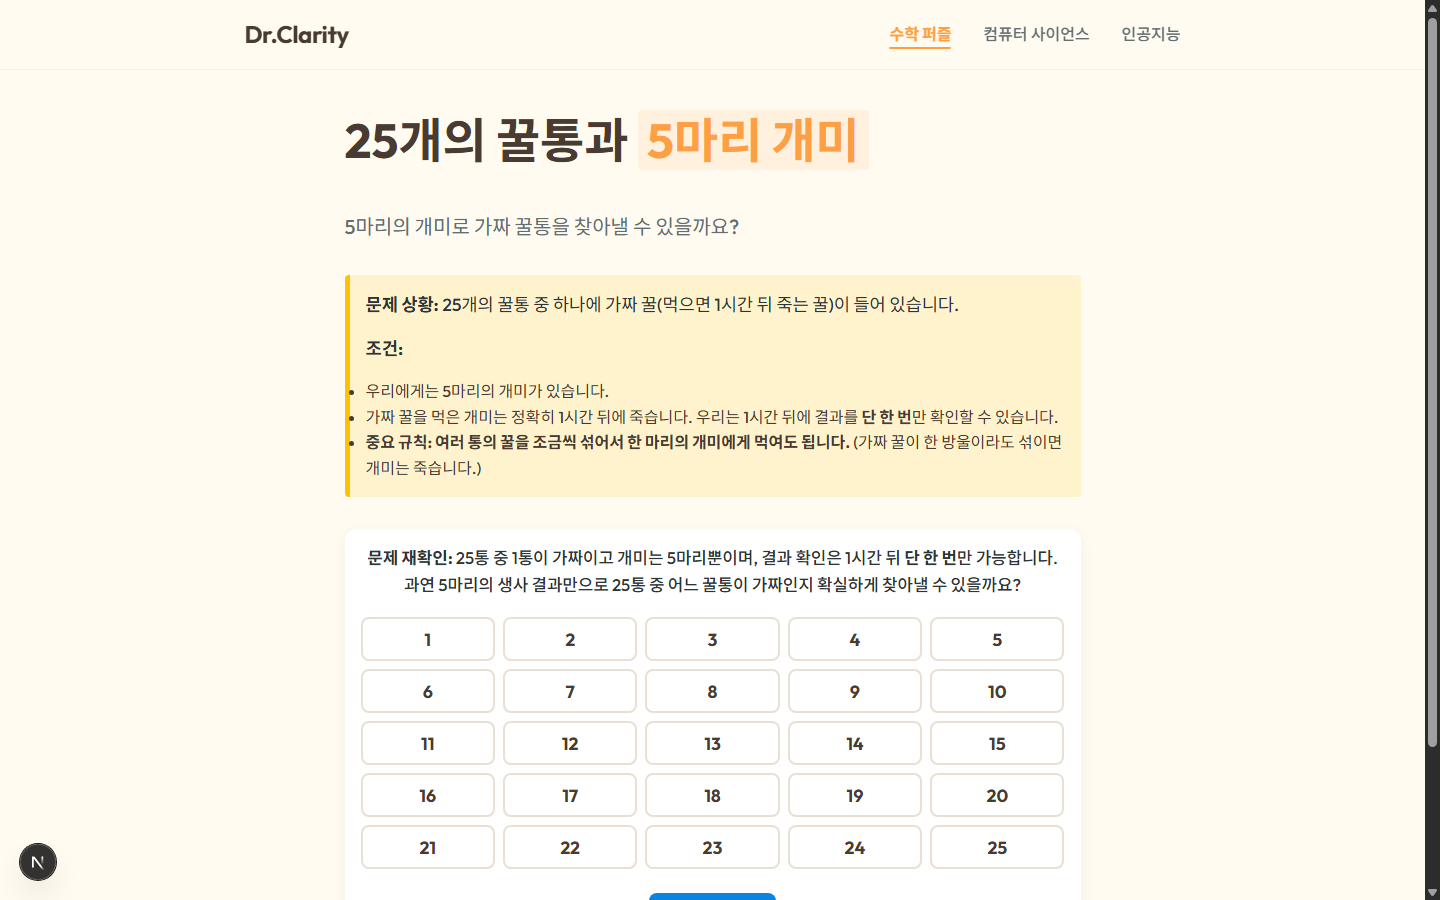
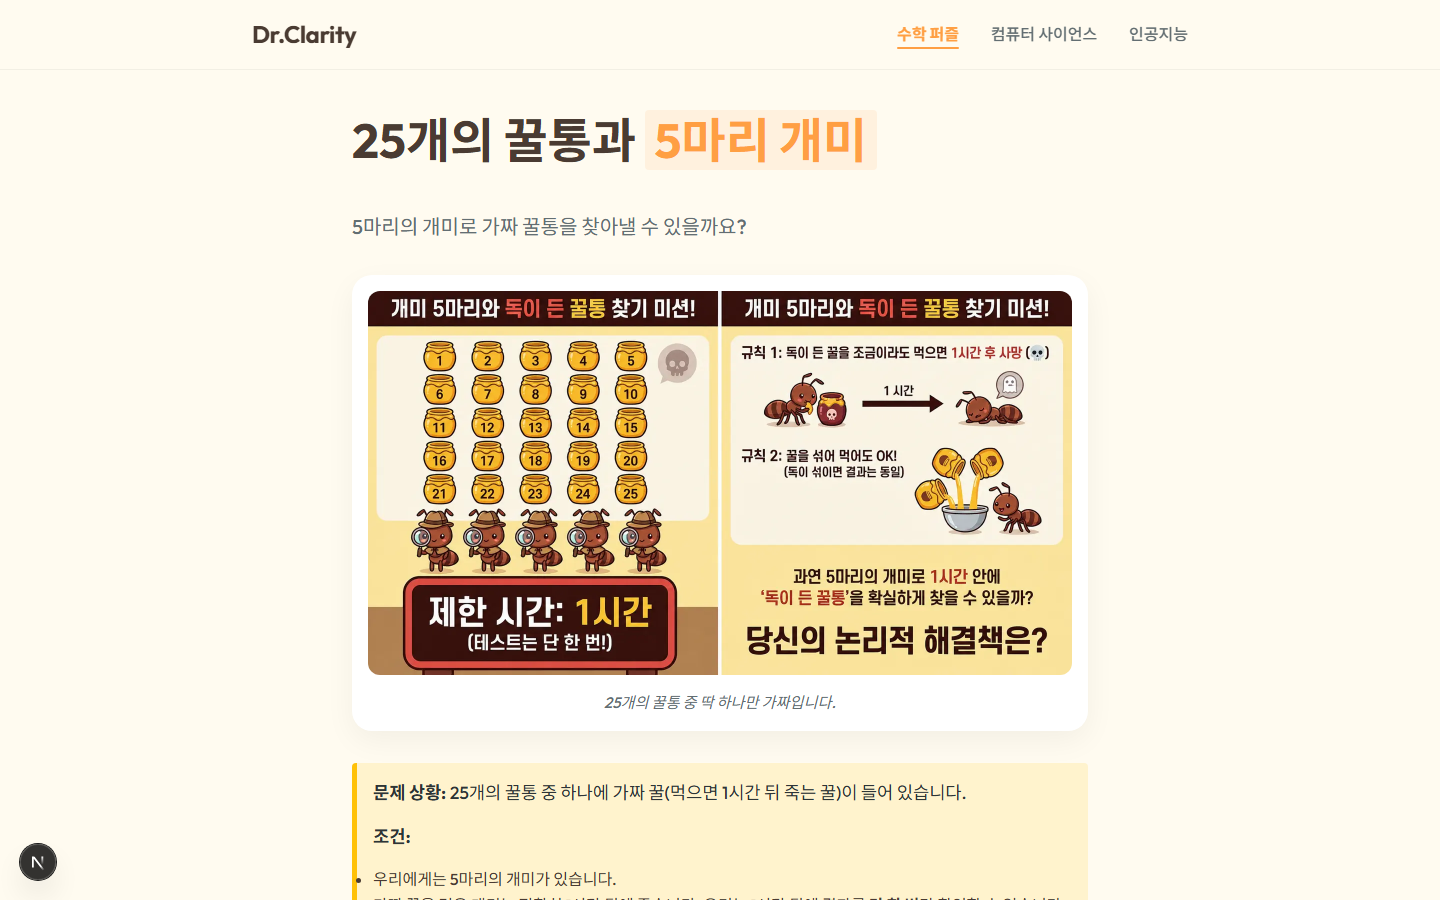
fix(#16): honey-pots 문제 이미지 복원 및 --media-max-h 토큰 상향 조정 (WP-7)

diff --git a/src/app/(topics)/math/honey-pots/HoneyPotsClient.tsx b/src/app/(topics)/math/honey-pots/HoneyPotsClient.tsx
@@ -1,6 +1,8 @@
 'use client';
 import { useState } from 'react';
+import Image from 'next/image';
 import { TopicLayout, Highlight } from '@/components/layout/TopicLayout';
+import { AnimationCard } from '@/components/topic/AnimationCard';
 import { ExplanationBox } from '@/components/topic/ExplanationBox';
 import { SolutionStepper, SolutionStep } from '@/components/topic/SolutionStepper';
 import { BinaryEncodingBoard, HoneyBoardMode } from './BinaryEncodingBoard';
@@ -72,6 +74,16 @@ export default function HoneyPotsClient() {
       title={<>25개의 꿀통과 <Highlight>5마리 개미</Highlight></>}
       subtitle="5마리의 개미로 가짜 꿀통을 찾아낼 수 있을까요?"
     >
+      <AnimationCard caption="25개의 꿀통 중 딱 하나만 가짜입니다.">
+        <Image 
+          src="/topics/honey-pots/problem.png" 
+          alt="25개의 꿀통과 5마리의 개미" 
+          width={1408} 
+          height={768} 
+          style={{ borderRadius: '12px' }}
+        />
+      </AnimationCard>
+
       <ExplanationBox variant="note">
         <p><strong>문제 상황:</strong> 25개의 꿀통 중 하나에 가짜 꿀(먹으면 1시간 뒤 죽는 꿀)이 들어 있습니다.</p>
         <p><strong>조건:</strong></p>

diff --git a/src/app/globals.css b/src/app/globals.css
@@ -49,8 +49,8 @@
   --fs-display: 3.5rem;  /* 신규. 홈 히어로 전용 — 원본 page.module.css .title */
 
   /* --- 미디어 상한 (이슈 완료조건 3) --- */
-  --media-max-h: 240px;
-  --media-max-h-mobile: 180px;
+  --media-max-h: 400px;
+  --media-max-h-mobile: 260px;
   --canvas-max-w: 400px;         /* InteractiveCanvas logicalWidth 와 동일 */
 
   /* --- 반경 (기존 20px/12px/8px 혼용 정리) --- */
